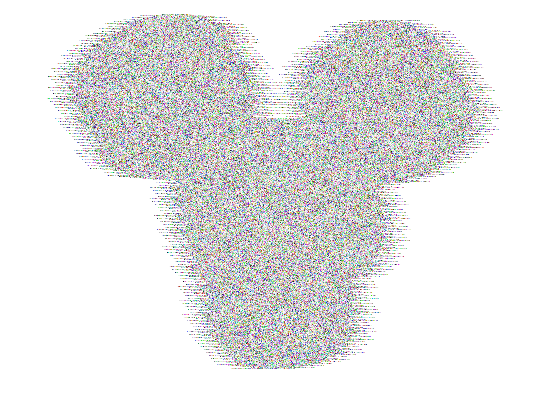
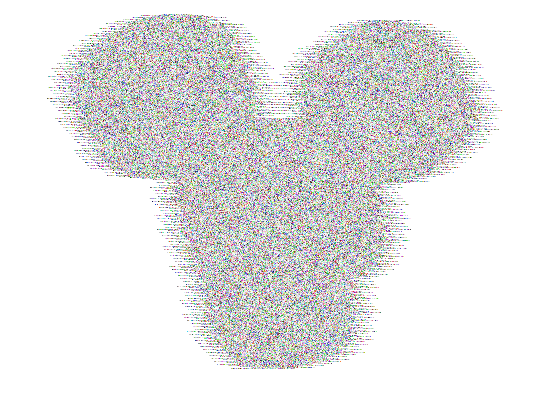
Dekrypcja naprawiona :DDDDDDDDDDDDD

diff --git a/application/png_class.py b/application/png_class.py
@@ -30,6 +30,7 @@ class Png:
         self.ancilliary_dict = {}
         self.read_signature()
         self.read_chunks()
+        self.read_after_iend_data()
         self.process_header()
         self.process_idat()
         self.process_palette()
@@ -61,6 +62,13 @@ class Png:
         while self.file_png.peek() != b'':
             tmp = chunk.Chunk(self.file_png)
             self.chunks.append(tmp)
+            if tmp.get_chunk_type() == 'IEND':
+                break
+
+    def read_after_iend_data(self):
+        self.after_iend_data = b''
+        while self.file_png.peek() != b'':
+            self.after_iend_data += self.file_png.read(1)
 
     def get_signature(self) -> bytes:
         return self.signature
@@ -76,6 +84,9 @@ class Png:
 
     def get_ihdr_chunk(self) -> chunk.Chunk:
         return [chunk for chunk in self.chunks if chunk.get_chunk_type() == 'IHDR'][0]
+
+    def get_after_iend_data(self) -> bytes:
+        return self.after_iend_data
 
     def process_header(self) -> bool:
         chunk_types = self.get_chunk_types()
@@ -417,48 +428,46 @@ class AnomizedPng(Png):
 
 
 class EncryptedPng(Png):
-    def __init__(self, file_png_name: str):
+    def __init__(self, file_png_name: str, public_key = None, private_key = None):
         super().__init__(file_png_name)
         idat_chunks = self.get_all_idat_chunks()
-        self.rsa_2048 = rsa2048(idat_chunks)
-        self.encrypt_rsa_2048()
-        self.build_png_from_chunks(
-            ".tmp/encrypted.png", pixels=self.rsa_2048.get_encrypted_pixels())
+        self.rsa_2048 = rsa2048(idat_chunks, public_key=public_key, private_key=private_key)
+        # self.encrypt_rsa_2048()
+        # self.build_png_from_chunks(
+        # ".tmp/encrypted.png", pixels=self.rsa_2048.get_encrypted_pixels())
 
     def __str__(self) -> str:
         return super().__str__() + "Encrypted PNG created"
 
     def encrypt_rsa_2048(self):
-        data_to_encrypt = self.get_and_prepare_data_to_encrypt()
+        data_to_encrypt = self.get_and_prepare_data_to_process()
         self.rsa_2048.encrypt_all_data_ECB(data_to_encrypt)
-        # self.replace_idat_chunks(self.rsa_2048.get_encrypted_chunks())
         self.after_iend_data = self.rsa_2048.get_extra_bytes()
+        self.build_png_from_chunks(".tmp/encrypted.png", pixels=self.rsa_2048.get_encrypted_pixels(),
+                                   after_iend_data=self.rsa_2048.get_extra_bytes())
+        return self.rsa_2048.get_private_key()
 
     def decrypt_rsa_2048(self):
-        png_to_decrypt = Png(".tmp/encrypted.png")
-        chunks_to_decrypt = png_to_decrypt.get_all_idat_chunks()
-        self.rsa_2048.decrypt_all_chunks_ECB(chunks_to_decrypt)
+        extra_data = self.get_after_iend_data()
+        data_to_decrypt = self.get_and_prepare_data_to_process()
+        self.rsa_2048.decrypt_all_data_ECB(data_to_decrypt, extra_data)
         self.replace_idat_chunks(self.rsa_2048.get_decrypted_chunks())
         self.build_png_from_chunks(
-            ".tmp/decrypted.png", pixels=self.rsa_2048.get_decrypted_pixels())
+            ".tmp/decrypted.png", pixels=self.rsa_2048.get_decrypted_pixels(), after_iend_data=b'')
 
-    def build_png_from_chunks(self, file_name: str, pixels) -> bool:
+    def build_png_from_chunks(self, file_name: str, pixels, after_iend_data) -> bool:
         writer = self.get_png_writer()
-        row_width = self.get_width() * self.calculate_bytes_per_pixel()
         print(self.get_width(), self.get_height())
+        row_width = self.get_width() * self.calculate_bytes_per_pixel()
         pixels_by_rows = [pixels[i:i+row_width]
                           for i in range(0, len(pixels), row_width)]
-        print(type(pixels_by_rows))
         for row in pixels_by_rows:
             if len(row) < row_width and type(row) == list:
                 row.extend([0]*(row_width-len(row)))
-        # print(type(pixels_by_rows[0]))
         with open(file_name, 'wb') as f:
-            # try:
             writer.write(f, pixels_by_rows)
-            f.write(self.after_iend_data)
-            # except:
-            # log.error("Small error")
+            # write after iend data as well
+            f.write(after_iend_data)
         return True
 
     def get_png_writer(self) -> png.Writer:
@@ -504,16 +513,17 @@ class EncryptedPng(Png):
         }
         return color_type_to_bytes_per_pixel_ratio[self.get_color_type()]
 
-    def get_and_prepare_data_to_encrypt(self):
+    def get_and_prepare_data_to_process(self):
         all_idat_data = b''
         for chunk_to_encrypt in self.get_all_idat_chunks():
             all_idat_data += chunk_to_encrypt.get_chunk()
         bytes_per_pixel = self.calculate_bytes_per_pixel()
         width = self.get_width()
         height = self.get_height()
-        
+
         all_idat_data = zlib.decompress(all_idat_data)
-        assert len(all_idat_data) == height * (1 + width * bytes_per_pixel) , "Corrupted data"
+        assert len(all_idat_data) == height * \
+            (1 + width * bytes_per_pixel), "Corrupted data"
 
         return self.defilter_data(all_idat_data)
 
@@ -550,9 +560,8 @@ class EncryptedPng(Png):
         def recon_c(r, c):
             return reconstructed_idat_data[(r-1) * stride + c - bytes_per_pixel] if r > 0 and c >= bytes_per_pixel else 0
 
-        
         i = 0
-        print(stride * height, len(data_to_defilter))
+        # print(stride * height, len(data_to_defilter))
         for r in range(height):
             filter_type = data_to_defilter[i]
             i += 1
@@ -572,7 +581,7 @@ class EncryptedPng(Png):
                         paeth_predictor(
                             recon_a(r, c), recon_b(r, c), recon_c(r, c))
                 else:
-                    print(filter_type)
+                    log.error(filter_type)
                     raise Exception('Invalid filter type')
                 reconstructed_idat_data += bytes([recon_x & 0xFF])
                 # print(i)

diff --git a/application/encryption.py b/application/encryption.py
@@ -29,9 +29,9 @@ class rsa2048:
                 q = sympy.randprime(2**(prime_size - 1), 2**prime_size-1)
             n = p * q
             phi = (p - 1) * (q - 1)
-            e = sympy.randprime(2**15, 2**16-1)
+            e = sympy.randprime(2**(self.key_size - 1), 2**self.key_size)
             while sympy.gcd(e, phi) != 1 and e >= phi:
-                e = sympy.randprime(2**15, 2**16-1)
+                e = sympy.randprime(2**(self.key_size - 1), 2**self.key_size)
             self.public_key = (n, e)
         else:
             self.public_key = public_key
@@ -47,6 +47,7 @@ class rsa2048:
 
         self.chunks_to_encrypt = chunks_to_encrypt
         self.encrypted_pixels = []
+        self.extra_bytes = b''
 
     def get_public_key(self) -> tuple:
         """ Returns public key"""
@@ -87,8 +88,9 @@ class rsa2048:
                 self.ENCRYPT_BLOCK_SIZE, byteorder='big')
 
             if len(data_to_encrypt_block) < self.ENCRYPT_BLOCK_SIZE_SUBTRACT:
-                self.encrypted_pixels += encrypted_block[0:len(data_to_encrypt_block)]
-                self.extra_bytes += encrypted_block[len(data_to_encrypt_block):]
+                self.encrypted_pixels += encrypted_block[0:len(
+                    data_to_encrypt_block)]
+                # self.extra_bytes += encrypted_block[len(data_to_encrypt_block):]
             else:
                 self.encrypted_pixels += encrypted_block[0:
                                                          self.ENCRYPT_BLOCK_SIZE_SUBTRACT]
@@ -106,9 +108,9 @@ class rsa2048:
         self.extra_bytes = b''
         self.encrypted_pixels = []
 
-        extra_bytes_part = self.encrypt_ECB(data_to_encrypt)
-        self.extra_bytes += extra_bytes_part
-        print(len(self.encrypted_pixels))
+        self.extra_bytes = self.encrypt_ECB(data_to_encrypt)
+        # print(self.extra_bytes)
+        # print(len(self.encrypted_pixels))
         return self.encrypted_chunks, self.extra_bytes
 
     def decrypt_ECB(self, data_to_decrypt: bytes):
@@ -120,27 +122,26 @@ class rsa2048:
             - bytes: decrypted chunk
         """
         decrypted_data = b''
-        data_to_decrypt_joined = b''
-        for i in range(0, len(data_to_decrypt), self.ENCRYPT_BLOCK_SIZE_SUBTRACT):
-            data_to_decrypt_joined += data_to_decrypt[i:i +
-                                                      self.ENCRYPT_BLOCK_SIZE_SUBTRACT]
-            data_to_decrypt_joined += self.extra_bytes[i:i + 1]
-        data_to_decrypt_blocks = [data_to_decrypt_joined[i:i + self.ENCRYPT_BLOCK_SIZE]
+
+        data_to_decrypt_blocks = [data_to_decrypt[i:i + self.ENCRYPT_BLOCK_SIZE]
                                   for i in range(0, len(data_to_decrypt), self.ENCRYPT_BLOCK_SIZE)]
 
-        p = 0
+        print(len(data_to_decrypt_blocks))
         for data_to_decrypt_block in data_to_decrypt_blocks:
             decrypted_int: int = pow(int.from_bytes(data_to_decrypt_block, byteorder='big'),
                                      self.private_key[1], self.private_key[0])
-            decrypted_block = decrypted_int.to_bytes(
-                self.ENCRYPT_BLOCK_SIZE, byteorder='big')
-            decrypted_data += decrypted_block[0:len(decrypted_block)]
-            p += 1
-            print(p)
-        self.extra_bytes = b''
+
+            if (len(data_to_decrypt_block) < self.ENCRYPT_BLOCK_SIZE):
+                decrypted_data += decrypted_int.to_bytes(
+                    len(data_to_decrypt_block), byteorder='big')
+            else:
+                decrypted_block = decrypted_int.to_bytes(
+                    self.ENCRYPT_BLOCK_SIZE_SUBTRACT, byteorder='big')
+                decrypted_data += decrypted_block
+
         return decrypted_data
 
-    def decrypt_all_data_ECB(self, chunks_to_decrypt: bytes):
+    def decrypt_all_data_ECB(self, data_to_decrypt: bytes, extra_data: bytes):
         """ 
         # Decrypt all chunks
         ## Args:
@@ -151,12 +152,20 @@ class rsa2048:
         self.decrypted_chunks = []
         self.decrypted_pixels = []
 
-        all_idat_data = b''
-        for chunk_to_decrypt in chunks_to_decrypt:
-            all_idat_data += chunk_to_decrypt.get_chunk()
+        # insert extra data[i] to every ENCRYPT_BLOCK_SIZE_SUBTRACT byte
+        data_to_decrypt_joined = b''
+        # extra data not read
+        for j, i in enumerate(range(0, len(data_to_decrypt), self.ENCRYPT_BLOCK_SIZE_SUBTRACT)):
+            if j < len(extra_data):
+                data_to_decrypt_joined += data_to_decrypt[i:i +
+                                                          self.ENCRYPT_BLOCK_SIZE_SUBTRACT]
+                data_to_decrypt_joined += extra_data[j:j+1]
+            else:
+                data_to_decrypt_joined += data_to_decrypt[i:i +
+                                                          self.ENCRYPT_BLOCK_SIZE_SUBTRACT]
 
         # data_to_decrypt = zlib.decompress(all_idat_data)
-        self.decrypted_pixels = self.decrypt_ECB(chunks_to_decrypt)
+        self.decrypted_pixels = self.decrypt_ECB(data_to_decrypt_joined)
 
         return self.decrypted_pixels
 
@@ -182,4 +191,5 @@ class rsa2048:
         ## Returns:
             - bytes: extra data
         """
+        # print(self.extra_bytes)
         return self.extra_bytes

diff --git a/application/test.py b/application/test.py
@@ -3,18 +3,21 @@ import cv2 as cv
 import logging as log
 
 log.basicConfig(
-    format='%(levelname)s {%(pathname)s:%(lineno)d} %(asctime)s %(message)s', level=log.INFO)
+    format='%(levelname)s {%(pathname)s:%(lineno)d} %(asctime)s %(message)s', level=log.ERROR)
 cat = png.Png('pictures/cat.png')
 # print(cat.get_chunk_types())
 
 
 encrypted = png.EncryptedPng('pictures/dice.png')
-# decrypted = encrypted.decrypt_rsa_2048()
+private_key = encrypted.encrypt_rsa_2048()
+
+decrypted = png.EncryptedPng('.tmp/encrypted.png', private_key = private_key)
+decrypted.decrypt_rsa_2048()
 # print(encrypted.get_chunk_types(), original.get_chunk_types())
 enc = cv.imread('.tmp/encrypted.png')
-# dec = cv.imread('.tmp/decrypted.png')
+dec = cv.imread('.tmp/decrypted.png')
 cv.imshow('Encrypted', enc)
-# cv.imshow('Decrypted', dec)
+cv.imshow('Decrypted', dec)
 
 cv.waitKey(0)
 
